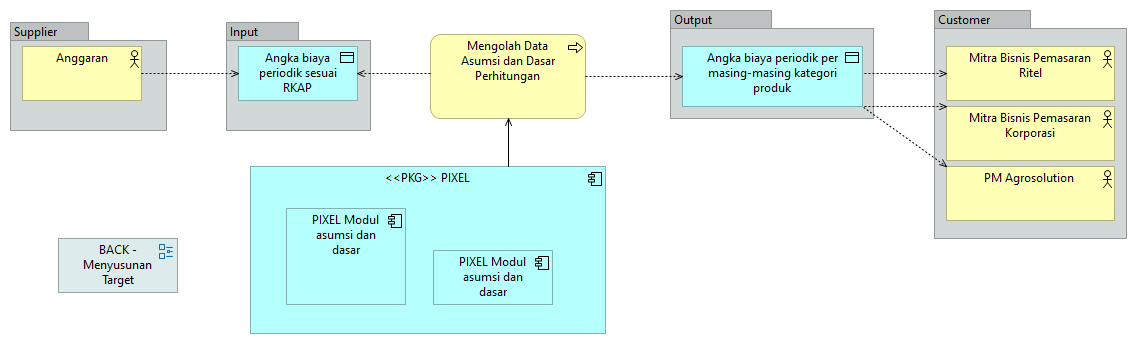
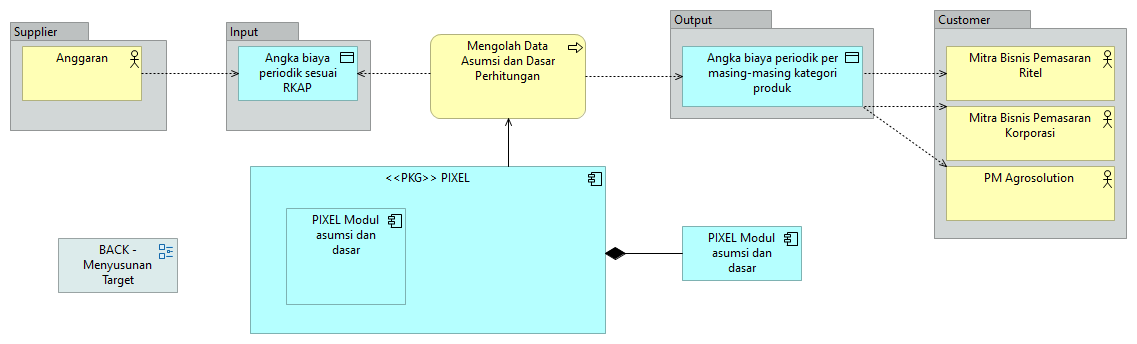
update pixel

diff --git a/id-7268f2543ed5468a8c44cd675c5f5471/views/id-ccd3ff8468b04615af62f5743a6a7522.html b/id-7268f2543ed5468a8c44cd675c5f5471/views/id-ccd3ff8468b04615af62f5743a6a7522.html
@@ -33,6 +33,7 @@
 		    <!-- If this is a digram model (has children and no bounds) show the image -->
 			   <img class="diagram" src="../images/id-ccd3ff8468b04615af62f5743a6a7522.png" alt="Mengolah Data Asumsi dan Dasar Perhitungan" usemap="#id-ccd3ff8468b04615af62f5743a6a7522map"/>
 			   <map name="id-ccd3ff8468b04615af62f5743a6a7522map">
+				  		<area shape="rect" coords="682,226,802,281" href="../elements/id-a8fd660866524a2d882bcd7bc2a0058a.html"  target="element">
 				  		<area shape="rect" coords="58,238,178,293" href="../views/id-cbaf04a486eb4db0ac71fffa4a4085db.html"  target="view">
 				      <!-- Other diagram objects -->
 				  				<area shape="rect" coords="946,166,1115,221" href="../elements/id-f2ab662539c84831b16bf2bb9f23b8dd.html"  target="element">
@@ -46,7 +47,6 @@
 				  		<area shape="rect" coords="946,34,1066,89" href="../elements/id-642e3c2f6c004a238a90287f709206b4.html"  target="element">
 				  		<area shape="rect" coords="742,34,862,89" href="../elements/id-0502db504a9443a990d9e65a6a111d9f.html"  target="element">
 				  				<area shape="rect" coords="286,208,406,305" href="../elements/id-a8fd660866524a2d882bcd7bc2a0058a.html"  target="element">
-				  				<area shape="rect" coords="433,250,553,305" href="../elements/id-a8fd660866524a2d882bcd7bc2a0058a.html"  target="element">
 
 				  		<area shape="rect" coords="250,166,606,334" href="../elements/id-ab255dd1ac214357b0ef4641470e9857.html"  target="element">
 				  		<area shape="rect" coords="430,34,586,119" href="../elements/id-5abb3d4d76d94b5bb8cf52ffc698666a.html"  target="element">
@@ -176,12 +176,6 @@
 													    </a> </td>
 													</tr>
 
-													<tr>
-													    <td> <a href="../elements/id-a8fd660866524a2d882bcd7bc2a0058a.html" target="element"> PIXEL Modul asumsi dan dasar </a> </td>
-													    <td> <a href="../elements/id-a8fd660866524a2d882bcd7bc2a0058a.html" target="element" class="i18n-elementtype-ApplicationComponent">
-													    </a> </td>
-													</tr>
-
 											
 											<tr>
 											    <td> <a href="../elements/id-0502db504a9443a990d9e65a6a111d9f.html" target="element"> &lt;&lt;Excel&gt;&gt;RKAP Penjualan (copy) </a> </td>
@@ -236,6 +230,12 @@
 											    <td> <a href="../views/id-cbaf04a486eb4db0ac71fffa4a4085db.html" target="view" class="i18n-viewpoint-business_process_cooperation"> </a> </td>
 											</tr>
 									    <!-- Other graphical objects -->
+
+											<tr>
+											    <td> <a href="../elements/id-a8fd660866524a2d882bcd7bc2a0058a.html" target="element"> PIXEL Modul asumsi dan dasar </a> </td>
+											    <td> <a href="../elements/id-a8fd660866524a2d882bcd7bc2a0058a.html" target="element" class="i18n-elementtype-ApplicationComponent">
+											    </a> </td>
+											</tr>
 
 
 								</tbody>

diff --git a/id-7268f2543ed5468a8c44cd675c5f5471/elements/model.html b/id-7268f2543ed5468a8c44cd675c5f5471/elements/model.html
@@ -1179,7 +1179,6 @@
 																		dataViewsContent.push({viewid:"id-ccd3ff8468b04615af62f5743a6a7522", contentid:"id-5abb3d4d76d94b5bb8cf52ffc698666a", contenttype:"BusinessProcess"});
 																		dataViewsContent.push({viewid:"id-ccd3ff8468b04615af62f5743a6a7522", contentid:"id-ab255dd1ac214357b0ef4641470e9857", contenttype:"ApplicationComponent"});
 																				dataViewsContent.push({viewid:"id-ccd3ff8468b04615af62f5743a6a7522", contentid:"id-a8fd660866524a2d882bcd7bc2a0058a", contenttype:"ApplicationComponent"});
-																				dataViewsContent.push({viewid:"id-ccd3ff8468b04615af62f5743a6a7522", contentid:"id-a8fd660866524a2d882bcd7bc2a0058a", contenttype:"ApplicationComponent"});
 																		
 																		dataViewsContent.push({viewid:"id-ccd3ff8468b04615af62f5743a6a7522", contentid:"id-0502db504a9443a990d9e65a6a111d9f", contenttype:"BusinessObject"});
 																		dataViewsContent.push({viewid:"id-ccd3ff8468b04615af62f5743a6a7522", contentid:"id-642e3c2f6c004a238a90287f709206b4", contenttype:"BusinessActor"});
@@ -1190,6 +1189,7 @@
 																				dataViewsContent.push({viewid:"id-ccd3ff8468b04615af62f5743a6a7522", contentid:"id-f2ab662539c84831b16bf2bb9f23b8dd", contenttype:"BusinessActor"});
 																		
 																		dataViewsContent.push({viewid:"id-ccd3ff8468b04615af62f5743a6a7522", contentid:"id-cbaf04a486eb4db0ac71fffa4a4085db", contenttype:"ArchimateDiagramModel"});
+																		dataViewsContent.push({viewid:"id-ccd3ff8468b04615af62f5743a6a7522", contentid:"id-a8fd660866524a2d882bcd7bc2a0058a", contenttype:"ApplicationComponent"});
 
 																		
 																										dataViewsContent.push({viewid:"id-ccd3ff8468b04615af62f5743a6a7522", contentid:"id-f044f1fb48c14c9781b22f546ff8fd48", contenttype:"AccessRelationship"});
